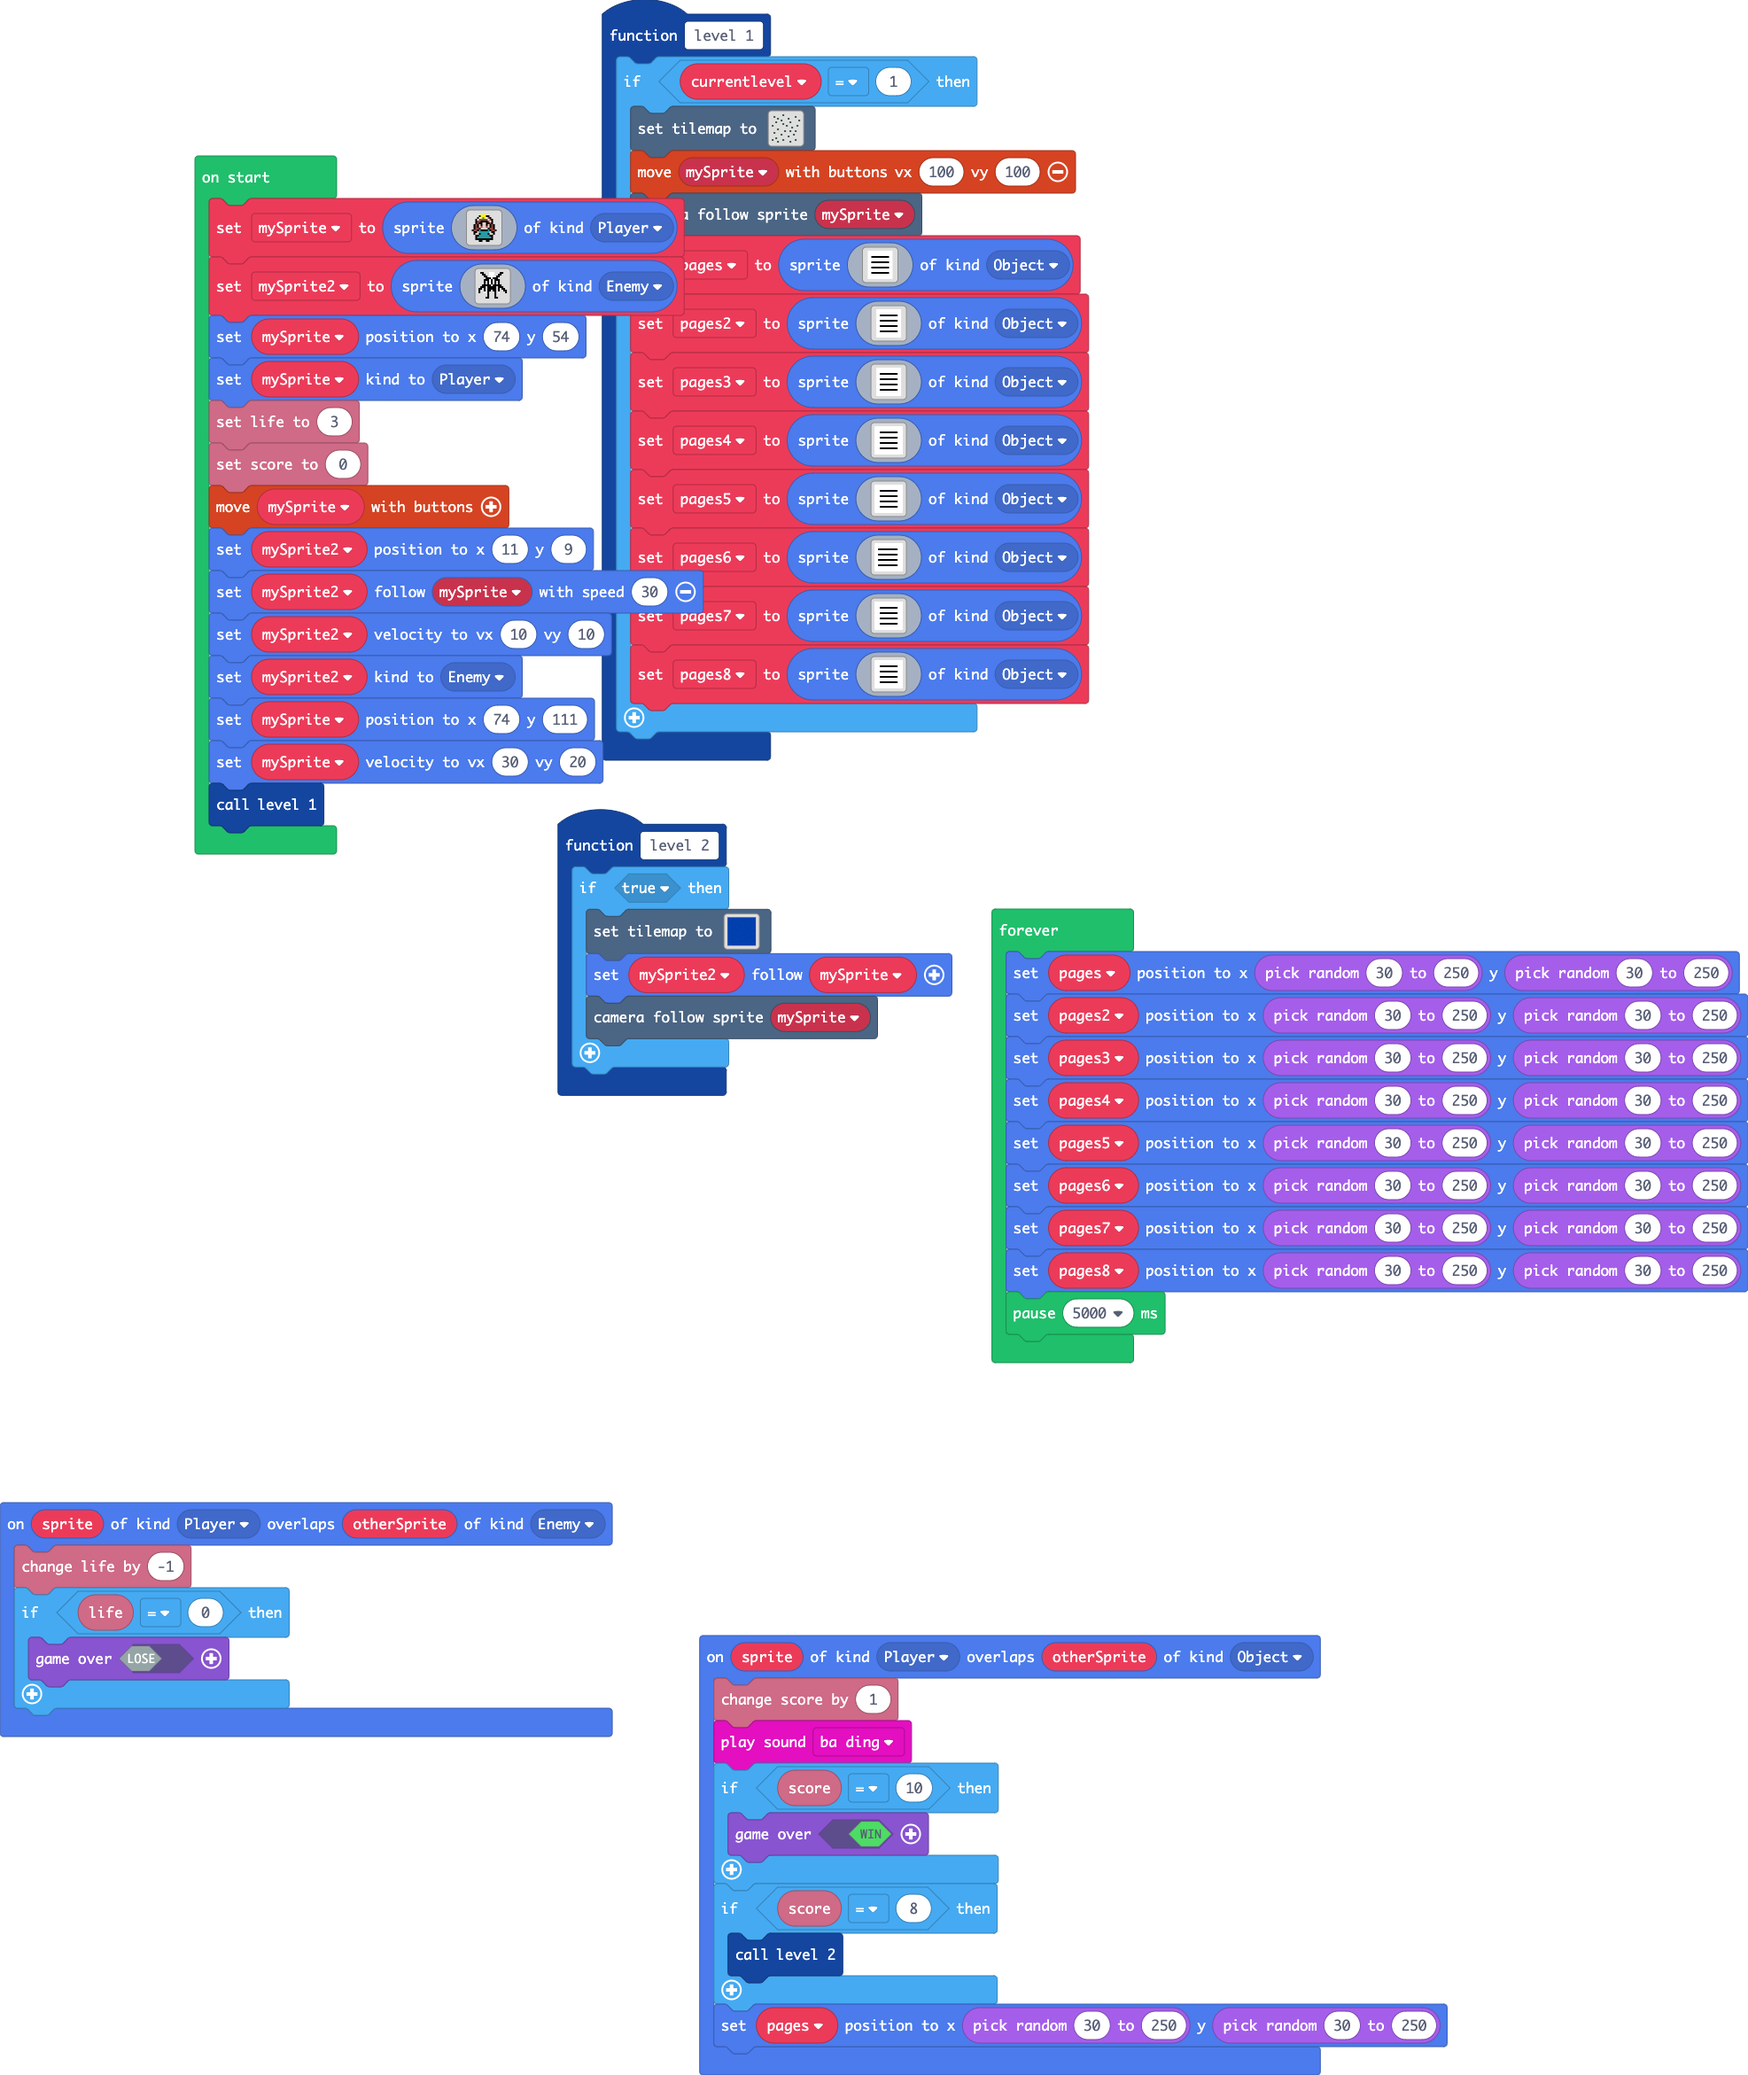
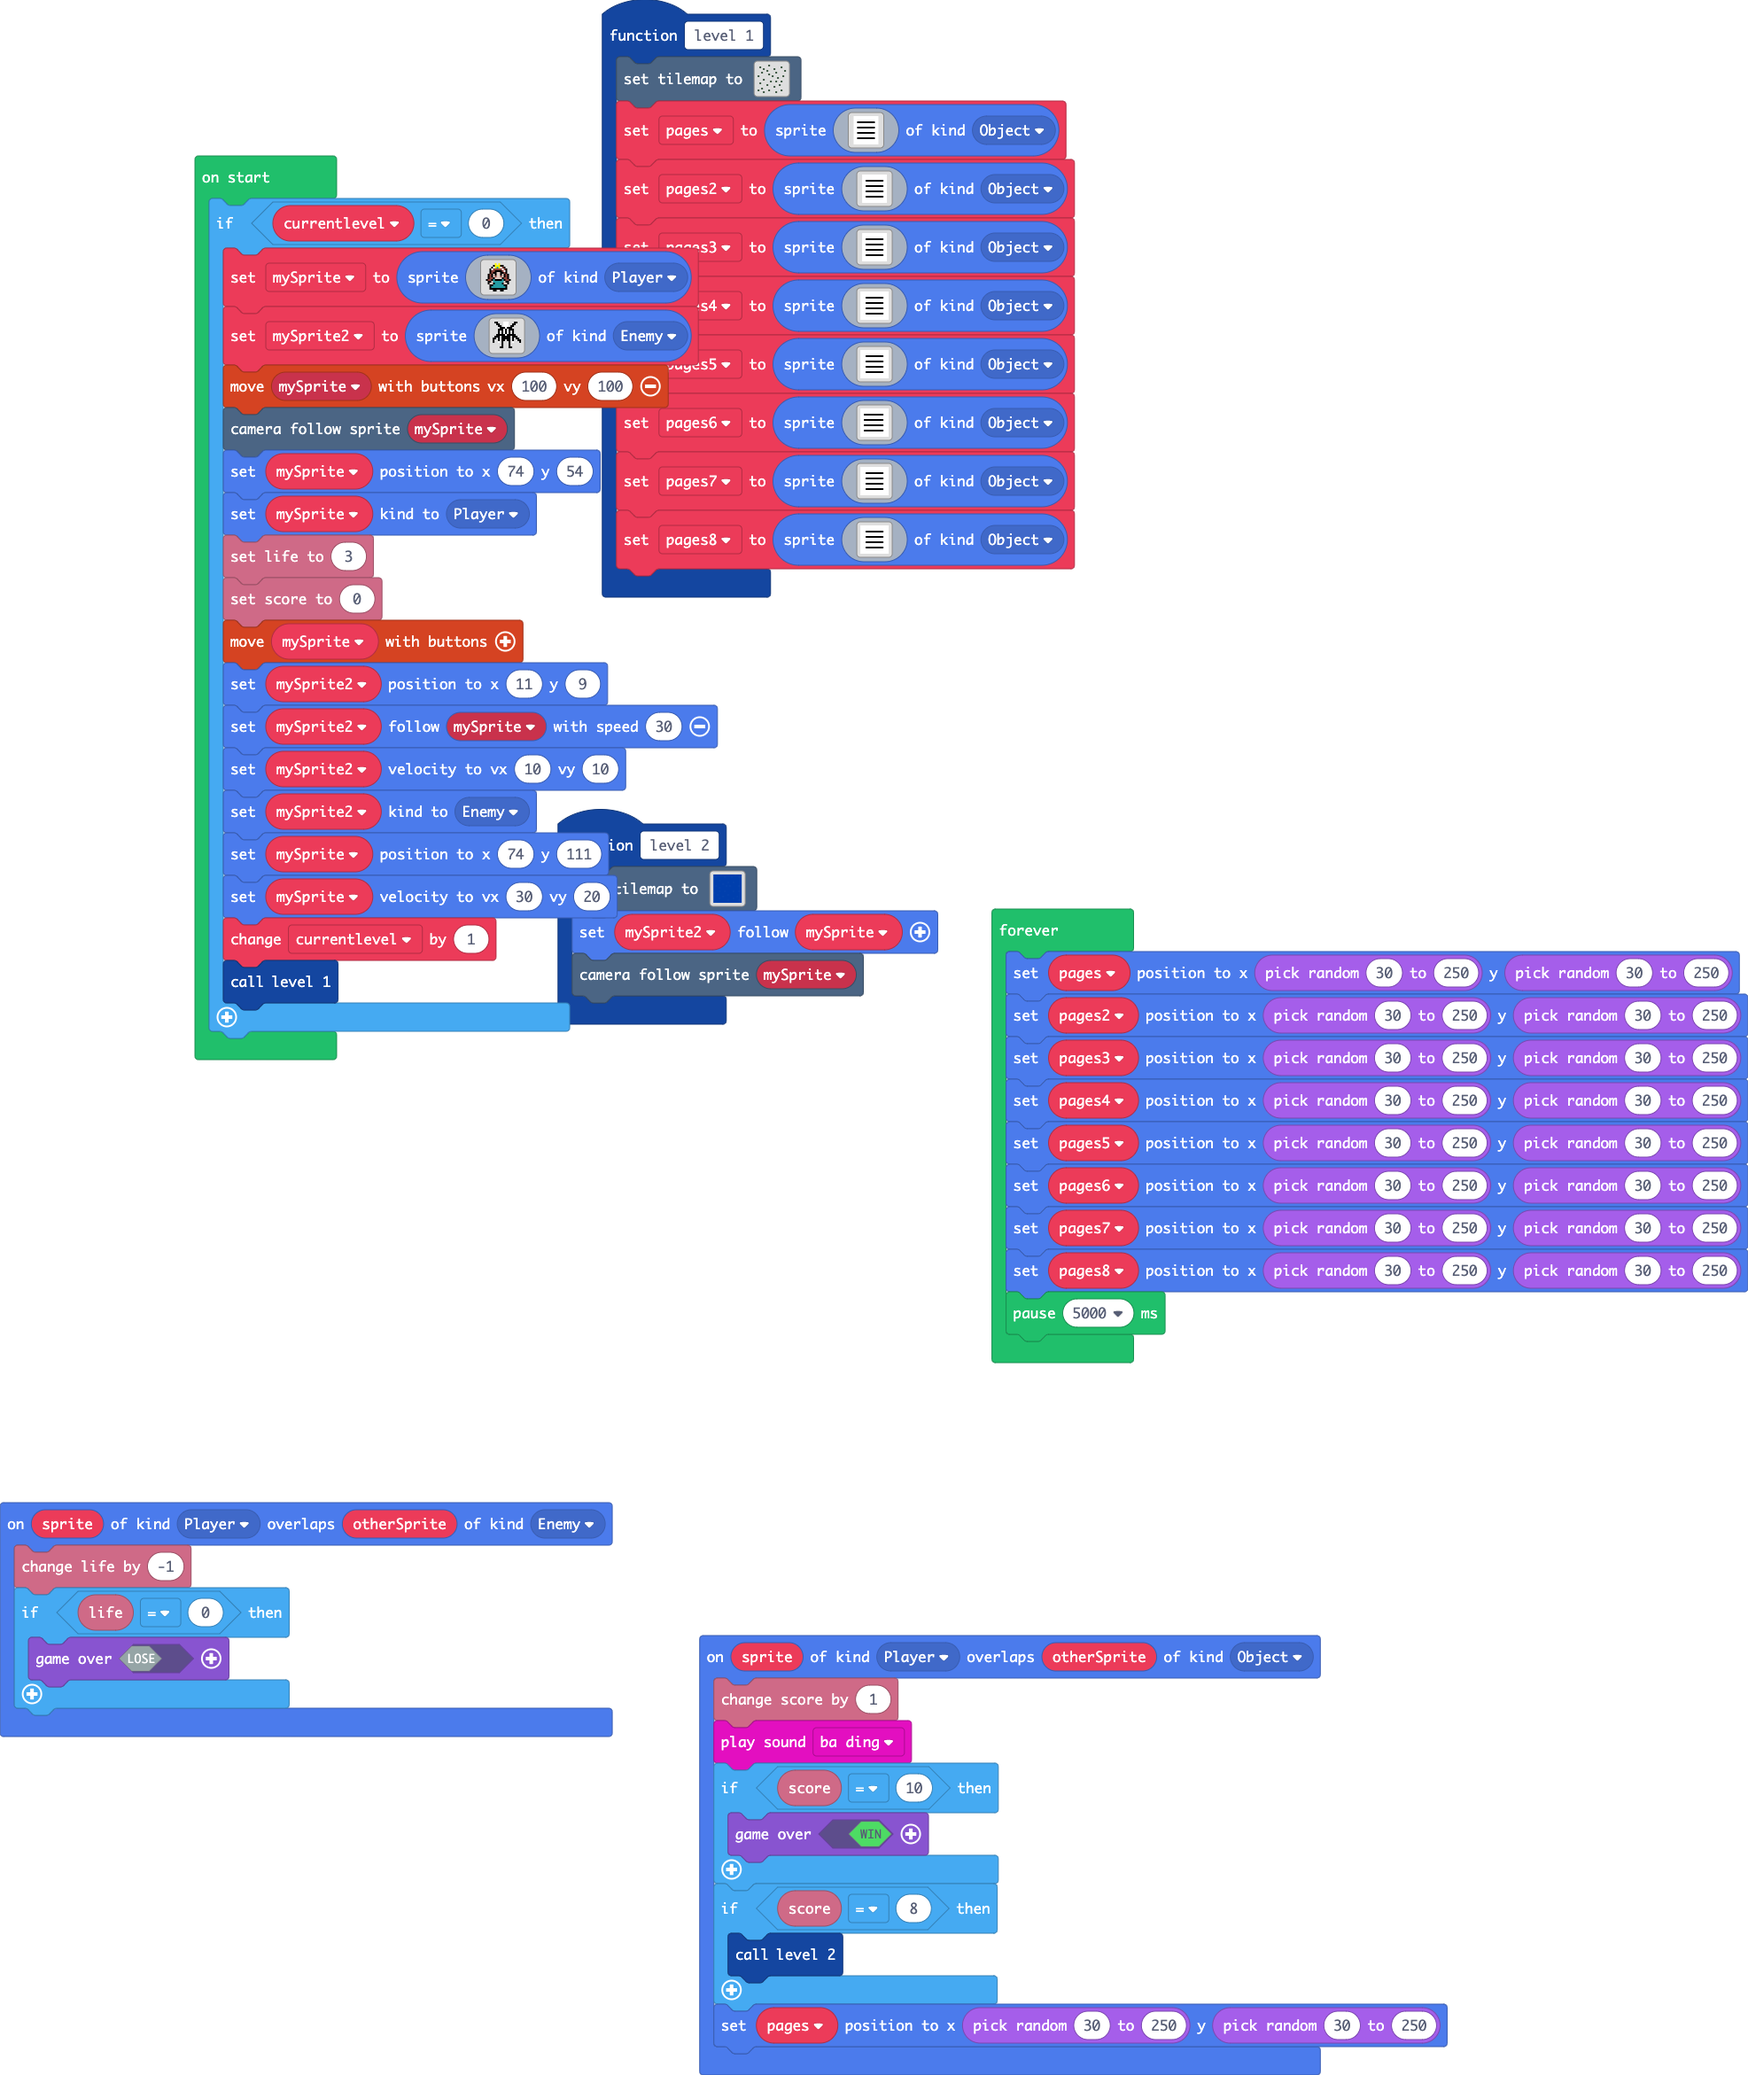
Update main.blocks, main.ts

Changed region(s): [[0.0928, 0.0, 0.6493, 0.5299]]

diff --git a/main.ts b/main.ts
@@ -129,8 +129,7 @@ sprites.onOverlap(SpriteKind.Player, SpriteKind.Object, function (sprite, otherS
     pages.setPosition(Math.randomRange(30, 250), Math.randomRange(30, 250))
 })
 function level_2 () {
-    if (true) {
-        tiles.setTilemap(tiles.createTilemap(
+    tiles.setTilemap(tiles.createTilemap(
             hex`1000100004040404050404040404040405040404040504040404050404040504040405040404040404040404040404040404040404040405040404040404040404040404040404040404040405040405040404040404040404050404040404040404040404050404040404050405040404040504040404050404040404040404040404040404040404040404040404040404040404040405040405040404040504040504050404040404040404040404040404040404050404040404050404040404040404040404040504040404040404050404040404050404040404040405040404040404040404040404050404040404050404050404040404040404040404040404`,
             img`
 . . . . . . . . . . . . . . . . 
@@ -153,14 +152,11 @@ function level_2 () {
             [myTiles.tile0,myTiles.tile1,myTiles.tile2,myTiles.tile3,myTiles.tile4,myTiles.tile5],
             TileScale.Sixteen
         ))
-        mySprite2.follow(mySprite)
-        scene.cameraFollowSprite(mySprite)
-    }
+    mySprite2.follow(mySprite)
+    scene.cameraFollowSprite(mySprite)
 }
 function level_1 () {
-    let currentlevel = 0
-    if (currentlevel == 1) {
-        tiles.setTilemap(tiles.createTilemap(
+    tiles.setTilemap(tiles.createTilemap(
             hex`1000100000000000000003000000000000000000000300000000000000000000000300000000000300000000000300000000000000000000000300000000000000000003000003000000000000000300000000000000000000000300000000000000000003000000000000000300000000000300000000000000000000000003000000000000000300000000000000000000000000000000000000030000030000030000000300000000000000000000000000000000000000030000000000000300000000000000000000000003000000000000000003000000000000000000000000000300000000000300000000000003000000000003000000000000030000000000`,
             img`
 . . . . . . . . . . . . . . . . 
@@ -183,9 +179,7 @@ function level_1 () {
             [myTiles.tile0,myTiles.tile1,sprites.castle.tilePath1,sprites.castle.saplingPine,myTiles.tile2,myTiles.tile3,myTiles.tile4,myTiles.tile5],
             TileScale.Sixteen
         ))
-        controller.moveSprite(mySprite, 100, 100)
-        scene.cameraFollowSprite(mySprite)
-        pages = sprites.create(img`
+    pages = sprites.create(img`
 . 1 1 1 1 1 1 1 1 1 1 1 1 1 1 . 
 . 1 1 1 1 1 1 1 1 1 1 1 1 1 1 . 
 . 1 1 1 1 1 1 1 1 1 1 1 1 1 1 . 
@@ -203,7 +197,7 @@ function level_1 () {
 . 1 1 1 1 1 1 1 1 1 1 1 1 1 1 . 
 . 1 1 1 1 1 1 1 1 1 1 1 1 1 1 . 
 `, SpriteKind.Object)
-        pages2 = sprites.create(img`
+    pages2 = sprites.create(img`
 . 1 1 1 1 1 1 1 1 1 1 1 1 1 1 . 
 . 1 1 1 1 1 1 1 1 1 1 1 1 1 1 . 
 . 1 1 1 1 1 1 1 1 1 1 1 1 1 1 . 
@@ -221,7 +215,7 @@ function level_1 () {
 . 1 1 1 1 1 1 1 1 1 1 1 1 1 1 . 
 . 1 1 1 1 1 1 1 1 1 1 1 1 1 1 . 
 `, SpriteKind.Object)
-        pages3 = sprites.create(img`
+    pages3 = sprites.create(img`
 . 1 1 1 1 1 1 1 1 1 1 1 1 1 1 . 
 . 1 1 1 1 1 1 1 1 1 1 1 1 1 1 . 
 . 1 1 1 1 1 1 1 1 1 1 1 1 1 1 . 
@@ -239,7 +233,7 @@ function level_1 () {
 . 1 1 1 1 1 1 1 1 1 1 1 1 1 1 . 
 . 1 1 1 1 1 1 1 1 1 1 1 1 1 1 . 
 `, SpriteKind.Object)
-        pages4 = sprites.create(img`
+    pages4 = sprites.create(img`
 1 1 1 1 1 1 1 1 1 1 1 1 1 1 1 1 
 1 1 1 1 1 1 1 1 1 1 1 1 1 1 1 1 
 1 1 1 1 1 1 1 1 1 1 1 1 1 1 1 1 
@@ -257,7 +251,7 @@ function level_1 () {
 1 1 1 1 1 1 1 1 1 1 1 1 1 1 1 1 
 1 1 1 1 1 1 1 1 1 1 1 1 1 1 1 1 
 `, SpriteKind.Object)
-        pages5 = sprites.create(img`
+    pages5 = sprites.create(img`
 1 1 1 1 1 1 1 1 1 1 1 1 1 1 1 1 
 1 1 1 1 1 1 1 1 1 1 1 1 1 1 1 1 
 1 1 1 1 1 1 1 1 1 1 1 1 1 1 1 1 
@@ -275,7 +269,7 @@ function level_1 () {
 1 1 1 1 1 1 1 1 1 1 1 1 1 1 1 1 
 1 1 1 1 1 1 1 1 1 1 1 1 1 1 1 1 
 `, SpriteKind.Object)
-        pages6 = sprites.create(img`
+    pages6 = sprites.create(img`
 1 1 1 1 1 1 1 1 1 1 1 1 1 1 1 1 
 1 1 1 1 1 1 1 1 1 1 1 1 1 1 1 1 
 1 1 1 1 1 1 1 1 1 1 1 1 1 1 1 1 
@@ -293,7 +287,7 @@ function level_1 () {
 1 1 1 1 1 1 1 1 1 1 1 1 1 1 1 1 
 1 1 1 1 1 1 1 1 1 1 1 1 1 1 1 1 
 `, SpriteKind.Object)
-        pages7 = sprites.create(img`
+    pages7 = sprites.create(img`
 1 1 1 1 1 1 1 1 1 1 1 1 1 1 1 1 
 1 1 1 1 1 1 1 1 1 1 1 1 1 1 1 1 
 1 1 1 1 1 1 1 1 1 1 1 1 1 1 1 1 
@@ -311,7 +305,7 @@ function level_1 () {
 1 1 1 1 1 1 1 1 1 1 1 1 1 1 1 1 
 1 1 1 1 1 1 1 1 1 1 1 1 1 1 1 1 
 `, SpriteKind.Object)
-        pages8 = sprites.create(img`
+    pages8 = sprites.create(img`
 1 1 1 1 1 1 1 1 1 1 1 1 1 1 1 1 
 1 1 1 1 1 1 1 1 1 1 1 1 1 1 1 1 
 1 1 1 1 1 1 1 1 1 1 1 1 1 1 1 1 
@@ -329,7 +323,6 @@ function level_1 () {
 1 1 1 1 1 1 1 1 1 1 1 1 1 1 1 1 
 1 1 1 1 1 1 1 1 1 1 1 1 1 1 1 1 
 `, SpriteKind.Object)
-    }
 }
 sprites.onOverlap(SpriteKind.Player, SpriteKind.Enemy, function (sprite, otherSprite) {
     info.changeLifeBy(-1)
@@ -347,7 +340,9 @@ let pages2: Sprite = null
 let pages: Sprite = null
 let mySprite2: Sprite = null
 let mySprite: Sprite = null
-mySprite = sprites.create(img`
+let currentlevel = 0
+if (currentlevel == 0) {
+    mySprite = sprites.create(img`
 . . . . . . 5 . 5 . . . . . . . 
 . . . . . f 5 5 5 f f . . . . . 
 . . . . f 1 5 6 5 1 e f . . . . 
@@ -365,7 +360,7 @@ mySprite = sprites.create(img`
 . . . f f f f f f f f f f . . . 
 . . . . . f f . . f f . . . . . 
 `, SpriteKind.Player)
-mySprite2 = sprites.create(img`
+    mySprite2 = sprites.create(img`
 . f f . . . 1 1 1 . . . f f . . 
 . . f f . . 1 1 1 . . f f . . . 
 . . . f f . 1 1 1 . f f . . . . 
@@ -383,18 +378,22 @@ f . . 1 . f . . . f . 1 . . . f
 . . . . f f . . . f f . . . . . 
 . . . . . . . . . . . . . . . . 
 `, SpriteKind.Enemy)
-mySprite.setPosition(74, 54)
-mySprite.setKind(SpriteKind.Player)
-info.setLife(3)
-info.setScore(0)
-controller.moveSprite(mySprite)
-mySprite2.setPosition(11, 9)
-mySprite2.follow(mySprite, 30)
-mySprite2.setVelocity(10, 10)
-mySprite2.setKind(SpriteKind.Enemy)
-mySprite.setPosition(74, 111)
-mySprite.setVelocity(30, 20)
-level_1()
+    controller.moveSprite(mySprite, 100, 100)
+    scene.cameraFollowSprite(mySprite)
+    mySprite.setPosition(74, 54)
+    mySprite.setKind(SpriteKind.Player)
+    info.setLife(3)
+    info.setScore(0)
+    controller.moveSprite(mySprite)
+    mySprite2.setPosition(11, 9)
+    mySprite2.follow(mySprite, 30)
+    mySprite2.setVelocity(10, 10)
+    mySprite2.setKind(SpriteKind.Enemy)
+    mySprite.setPosition(74, 111)
+    mySprite.setVelocity(30, 20)
+    currentlevel += 1
+    level_1()
+}
 forever(function () {
     pages.setPosition(Math.randomRange(30, 250), Math.randomRange(30, 250))
     pages2.setPosition(Math.randomRange(30, 250), Math.randomRange(30, 250))
